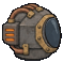
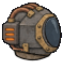
fix(crew): socket helmets wear the basic neck and nod as it does
Every dome ends on the basic helmet's lip; its neck band is laid on in the
dome's own colour, so each meets the rubber as the basic one does.

diff --git a/tools/anime-art/socket/socket.js b/tools/anime-art/socket/socket.js
@@ -27,13 +27,25 @@ const glassAt = (x, y) => alpha(basicVisor, x, y) > 0;
 const mustAt = (x, y) => alpha(basicShell, x, y) > 40 || glassAt(x, y);
 const vb = bbox(basicVisor), bb = bbox(basicShell);
 
+/**
+ * The basic helmet's neck: the narrow band under its ball, from the dark lip line down onto the seal, as a row per column (the
+ * lip's row at x, read off its picture). Every socket helmet wears it, in its own colour: the dome ends on the lip.
+ */
+const LIP = [[16, 54], [27, 54], [31, 55], [35, 56], [40, 57], [44, 58], [54, 58], [56, 57]];
+const lipAt = (x) => {
+  if (x > LIP[LIP.length - 1][0]) return Infinity;
+  if (x <= LIP[0][0]) return LIP[0][1];
+  for (let k = 1; k < LIP.length; k++) if (x <= LIP[k][0]) { const [x0, y0] = LIP[k - 1], [x1, y1] = LIP[k]; return y0 + (y1 - y0) * (x - x0) / (x1 - x0); }
+};
+const neckAt = (x, y) => alpha(basicShell, x, y) > 0 && y >= lipAt(x) - 1;
+
 /** Where paint may be: the must zone, one world px round it at the top, back and front above the rim, and a snout's reach past the glass. */
 const may = new Uint8Array(W * H);
 for (let y = 0; y < H; y++) for (let x = 0; x < W; x++) {
   let ok = mustAt(x, y);
   if (!ok && y < RIM) for (let d = -GROW; d <= GROW && !ok; d++) for (let e = -GROW; e <= GROW && !ok; e++) ok = d * d + e * e <= GROW * GROW && mustAt(x + e, y + d);
   if (!ok && x >= vb.x0 && x <= vb.x1 + SNOUT && y >= (vb.y0 + vb.y1) >> 1 && y <= bb.y1 && !alpha(seal, x, y)) ok = true;
-  may[y * W + x] = ok ? 1 : 0;
+  may[y * W + x] = ok && y < lipAt(x) - 1 ? 1 : 0;
 }
 
 function template(out) {
@@ -144,12 +156,21 @@ function cut(sheetFile, ids, write) {
     for (let y = 0; y < H; y++) for (let x = 0; x < W; x++) {
       const i = y * W + x; if (!dome[i * 4 + 3]) continue;
       let cutNear = dropped[i] === 2;
-      for (let d = -1; d <= 1 && !cutNear; d++) for (let e = -1; e <= 1 && !cutNear; e++) { const p = x + e, q = y + d; cutNear = p >= 0 && q >= 0 && p < W && q < H && dropped[q * W + p] === 1; }
+      for (let d = -1; d <= 1 && !cutNear; d++) for (let e = -1; e <= 1 && !cutNear; e++) { const p = x + e, q = y + d; cutNear = p >= 0 && q >= 0 && p < W && q < H && dropped[q * W + p] === 1 && !neckAt(p, q); }
       if (cutNear) { dome[i * 4] = ink[0]; dome[i * 4 + 1] = ink[1]; dome[i * 4 + 2] = ink[2]; dome[i * 4 + 3] = 255; }
+    }
+    // the neck laid on, the basic one's pixels in the dome's colour just above its lip (its ink kept dark): one shape for all
+    const band = (img) => { const t = [0, 0, 0, 0]; for (let y = 40; y < 60; y++) for (let x = 22; x <= 52; x++) { const q = (y * W + x) * 4; if (y < lipAt(x) - 7 || y >= lipAt(x) - 1 || img[q + 3] < 200 || img[q] + img[q + 1] + img[q + 2] < 150) continue; for (let k = 0; k < 3; k++) t[k] += img[q + k]; t[3]++; } return t.slice(0, 3).map((v) => v / Math.max(1, t[3])); };
+    const tint = band(dome), base = band(basicShell.px);
+    for (let y = 0; y < H; y++) for (let x = 0; x < W; x++) {
+      if (!neckAt(x, y)) continue;
+      const q = (y * W + x) * 4, A = basicShell.px[q + 3] / 255, B = dome[q + 3] / 255, out = A + B * (1 - A);
+      for (let k = 0; k < 3; k++) dome[q + k] = (Math.min(255, basicShell.px[q + k] * tint[k] / base[k]) * A + dome[q + k] * B * (1 - A)) / out;
+      dome[q + 3] = Math.round(out * 255);
     }
     // the check: the must zone painted, so the lamp and the glass's rim have their surface; its edge 2 px in aside, the soft edge
     // and the basic helmet's own knobs (its valve at the back) with it
-    const inner = (x, y) => { if (!mustAt(x, y) || glassAt(x, y)) return false; for (let d = -2; d <= 2; d++) for (let e = -2; e <= 2; e++) if (!mustAt(x + e, y + d)) return false; return true; };
+    const inner = (x, y) => { if (!mustAt(x, y) || glassAt(x, y) || neckAt(x, y)) return false; for (let d = -2; d <= 2; d++) for (let e = -2; e <= 2; e++) if (!mustAt(x + e, y + d)) return false; return true; };
     let must = 0, held = 0;
     for (let y = 0; y < H; y++) for (let x = 0; x < W; x++) if (inner(x, y)) { must++; if (a(dome, x, y) >= 128) held++; }
     const cover = held / must, ok = cover >= MUST;

diff --git a/game/features/crew/Figure.cs b/game/features/crew/Figure.cs
@@ -1064,8 +1064,7 @@ public partial class Figure : Node2D
         Rows(_shell, double.NegativeInfinity, cut);
         Rows(_visor, double.NegativeInfinity, cut);
         Rows(_collarPart, _fit.Cut ?? double.NegativeInfinity, double.PositiveInfinity);
-        // A socket helmet's rubber is its seal, bending: no collar beside it.
-        _collarPart.Visible = helmet != null && !BodyFit.IsSocket(helmet) && (_fit.Cut == null || _collarPart.RegionRect.Size.Y > 0);
+        _collarPart.Visible = helmet != null && (_fit.Cut == null || _collarPart.RegionRect.Size.Y > 0);
     }
 
     /// <summary>A helmet's picture drawn only from row <paramref name="from"/> to <paramref name="to"/> of its box, each where it is.</summary>
@@ -1103,9 +1102,9 @@ public partial class Figure : Node2D
         "hair" => $"hair_{HeroLooks.Wrap(_look.Hair, HeroLooks.HairStyles)}",
         "beard" => $"beard_{Math.Max(HeroLooks.Wrap(_look.Beard, HeroLooks.Beards + 1) - 1, 0)}",
         // A later helmet's own pictures (2026-11-03-the-heavy-helmet); the basic one's keep their first names.
-        // A socket helmet (helmet-socket) is its dome on the basic one's glass, seal and rim: its own glass only when tinted.
-        "visor" when BodyFit.IsSocket(_helmetWorn) => HiRes.Has($"hero_{_helmetWorn}_visor") ? $"{_helmetWorn}_visor" : "visor",
-        "seal" or "collar" when BodyFit.IsSocket(_helmetWorn) => "helmet_collar",
+        // A socket helmet (helmet-socket) is its dome and neck on the basic one's rubber collar; its glass the basic one's, tinted or
+        // opened where the dome stands in front of it.
+        "collar" when BodyFit.IsSocket(_helmetWorn) => "helmet_collar",
         "shell" or "visor" when _helmetWorn is { } worn && worn != Stillwake.Content.Helmet.Basic => $"{worn}_{part}",
         "shell" => "helmet_shell",
         // A collar of its own (helmets-fit-the-suit), else the shell's rows from its cut.

diff --git a/game/features/crew/logic/BodyFit.cs b/game/features/crew/logic/BodyFit.cs
@@ -125,11 +125,11 @@ public static class BodyFit
     public static HelmetFit Of(string? helmet) =>
         helmet == null || FitOf(helmet) is not { } fit ? Whole : Trial is { } turn ? As(helmet, fit, turn) : fit;
 
-    private static HelmetFit? FitOf(string helmet) => Fits.TryGetValue(helmet, out var fit) ? fit : IsSocket(helmet) ? Shell : null;
+    private static HelmetFit? FitOf(string helmet) => Fits.TryGetValue(helmet, out var fit) ? fit : IsSocket(helmet) ? Ball : null;
 
     /// <summary>
-    /// The socket helmets (helmet-socket): only a painted dome of their own, on the basic helmet's rim, rubber seal and glass,
-    /// turning whole on that seal so nothing painted ever bends. Every new helmet is one.
+    /// The socket helmets (helmet-socket): only a painted dome of their own, on the basic helmet's neck (in the dome's colour),
+    /// rubber seal and glass, nodding as the basic ball does, the neck and seal bending. Every new helmet is one.
     /// </summary>
     public static readonly IReadOnlyList<string> Sockets =
         [Stillwake.Content.Helmet.Heated, Stillwake.Content.Helmet.HeatProof, "dustHelmet", "hideHelmet", "boilerHelmet"];

diff --git a/game.tests/SkinCatalogueTests.cs b/game.tests/SkinCatalogueTests.cs
@@ -29,7 +29,7 @@ public class SkinCatalogueTests
     [Fact]
     public void ASocketHelmetIsItsDomeAloneOnTheBasicOnesMountsAndSeal()
     {
-        // helmet-socket: the rim, seal, glass, lamp and scanner are the basic helmet's; it turns whole, only the seal bending.
+        // helmet-socket: the neck, rubber collar, lamp and scanner are the basic helmet's, and it nods as the basic one does.
         foreach (var helmet in BodyFit.Sockets)
         {
             Assert.Contains(helmet, HelmetPictures);
@@ -37,7 +37,7 @@ public class SkinCatalogueTests
             Assert.True(Png.Has($"items/{helmet}") || Png.Has($"skins/{helmet}"), $"{helmet}'s card");
             Assert.False(Png.Has($"hero_{helmet}_seal") || Png.Has($"hero_{helmet}_collar"), $"{helmet} has a seal or collar of its own");
             Assert.False(LampMounts.On.ContainsKey(helmet) || ScannerInk.On.ContainsKey(helmet), $"{helmet} has a mount row of its own");
-            Assert.Equal((HelmetTurn.Ring, true), (BodyFit.Of(helmet).Turn, BodyFit.Of(helmet).Sealed));
+            Assert.Same(BodyFit.Of(Content.Helmet.Basic), BodyFit.Of(helmet));
         }
     }
 

diff --git a/docs/plans/helmet-socket.md b/docs/plans/helmet-socket.md
@@ -27,21 +27,18 @@ helmet's pictures are.
 
 | Part | Owner | What it is |
 | --- | --- | --- |
-| **Rim line** | engine | The basic shell's own bottom outline, from box row 8.25 (hd 44) down. Every dome ends exactly on it. |
-| **Seal** | engine | The basic rubber ring (`hero_helmet_collar`), drawn under the dome. It bends, and nothing else does. |
+| **Neck** | engine | The basic helmet's narrow band under its ball, from its dark lip line down onto the rubber (`LIP` in the tool), laid on in the dome's own colour. Every dome ends on the lip, so every helmet meets the rubber as the basic one does. |
+| **Rim line** | engine | Behind and in front of the neck, the basic shell's own bottom outline from box row 8.25 (hd 44) down. |
+| **Seal** | engine | The basic rubber collar (`hero_helmet_collar`), under the dome and neck. |
 | **Glass** | engine | The basic visor's place and shape, the face behind it. A helmet may tint it: the heat helmet is gold. |
 | **Mounts** | engine | The lamp at (8, −2) and the scanner at (6.2, −1.9), the basic helmet's, for every socket helmet. |
 | **Must zone** | GPT | The basic shell's silhouette. It must be painted: the lamp's and scanner's mounts sit on its brow. |
 | **May zone** | GPT | One polygon, drawn once in the tool: one world px round the must zone at its top and back, above the rim line, and at the front 2 world px past the glass, down to the rim line. The front reach is for a snout, a mask or a filter; its first user is the dust wrap's filter. |
 | **Never** | — | Anything below the rim line, or outside the may zone. |
 
-**One way to turn.** Every socket helmet turns whole about the seal's middle (`SealY` 11.75), and only the engine's seal
-bends: the skins' fit, `BodyFit.Shell`, unchanged. The soft `Ball` fit is not enough: the dome's own bottom, rows 9.75 to
-12.5 of the box, lies in its bending band (`SealY` ± 2), and the dust wrap's filter stretched there. Under `Shell` nothing
-painted bends, whatever GPT draws there.
-
-**The basic helmet.** It is the template and stays soft (`Ball`), the user's pick of PR 579. In the try, the F8 key shows it
-on the socket fit too. If play prefers the socket, it moves over and the soft fit is left to the hoods.
+**One way to turn: the basic helmet's.** Every socket helmet nods as the basic one does (`BodyFit.Ball`): the ball whole, the
+neck and rubber bending. A first try turned them whole on the skins' seal (`Shell`) with no neck: in play none read as sitting
+on the rubber, only the basic helmet did. Painted detail just above the lip may bend a little in the band's top rows.
 
 ## Making one
 A tool in `tools/anime-art/socket/` (node), committed, in three steps.
@@ -51,10 +48,12 @@ A tool in `tools/anime-art/socket/` (node), committed, in three steps.
    prompt (kept in the tool) asks GPT to paint the dome in the grey, to end on the black seal as the basic helmet does, and
    to change nothing else. The candidate's own picture goes with it as a reference.
 2. **Cut and check** (`cut.js`). It cuts each cell by the grid to 76 × 72, measured against the reference cell. Then:
-   - everything outside the may zone or below the rim line is dropped;
+   - everything outside the may zone, below the lip or below the rim line is dropped;
    - whatever GPT painted over the glass is dropped; the engine's glass is under it;
    - the rim line is inked in the darkest colour of the dome's own outline, so the seam is in its paint, not the basic
-     helmet's. This is the only style step code takes.
+     helmet's;
+   - the neck is laid on: the basic one's pixels, each channel scaled by the dome's mean colour just above the lip over the
+     basic ball's there, so its ink stays dark. These two are the only style steps code takes.
 
    A candidate is **refused** when less than 98% of the must zone is painted: it would leave a hole under the lamp or the
    glass. Refused cells are drawn again. Everything else is shape that was cropped. The report gives each candidate's
@@ -67,12 +66,11 @@ open where the dome stands in front of it. The game draws the glass over the dom
 would hide behind it otherwise.
 
 ## In the game
-- `Figure.PictureOf`: a socket helmet's seal is `helmet_collar`, its collar is none, and its visor is `visor` unless it has
-  its own.
-- A list of socket helmets in `BodyFit` gives each the `Shell` fit; the rows of the five gear-roles helmets go.
+- `Figure.PictureOf`: a socket helmet's collar is `helmet_collar`.
+- A list of socket helmets in `BodyFit` gives each the basic helmet's fit; the rows of the five gear-roles helmets go.
 - `LampMounts` and `ScannerInk` lose the five helmets' rows: their `Of` already falls back to the basic one's.
 - One test in `SkinCatalogueTests`: every socket helmet has its shell and card, no seal or collar picture of its own, and
-  the `Shell` fit.
+  the basic helmet's fit.
 - The five gear-roles helmets are drawn again through the tool; their `_seal`, `_collar` and copied visor files go.
 - Checked on the dress sheet: a dead socket helmet's crumble, and the eyes' glow (`hero_<helmet>_lit`) inside one.
 
